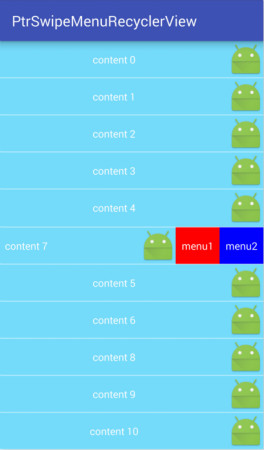
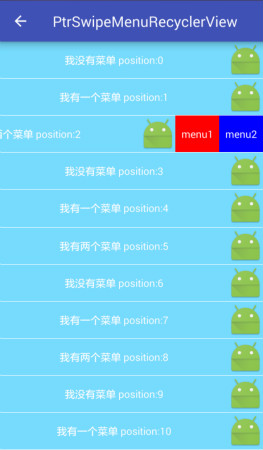
2016.11.18  增加定制侧滑菜单demo

diff --git a/app/src/main/java/com/cc/library/view/DragSwipeDemoAct.java b/app/src/main/java/com/cc/library/view/DragSwipeDemoAct.java
@@ -1,6 +1,5 @@
 package com.cc.library.view;
 
-import android.app.Activity;
 import android.os.AsyncTask;
 import android.os.Bundle;
 import android.support.v7.app.AppCompatActivity;
@@ -9,6 +8,7 @@ import android.support.v7.widget.RecyclerView;
 import android.support.v7.widget.helper.ItemTouchHelper;
 import android.view.View;
 
+import com.cc.library.view.adapter.DragSwipeAdapter;
 import com.cc.library.view.adapter.SwipeAdapter;
 import com.cc.library.view.util.ToastUtil;
 import com.library.widget.PtrSwipeMenuRecyclerView;
@@ -24,8 +24,9 @@ import java.util.List;
 
 public class DragSwipeDemoAct extends AppCompatActivity {
     private PtrSwipeMenuRecyclerView recyclerView;
-    private SwipeAdapter swipeAdapter;
+    private DragSwipeAdapter adapter;
     public List<Integer> datas;
+
     @Override
     protected void onCreate(Bundle savedInstanceState) {
         super.onCreate(savedInstanceState);
@@ -33,6 +34,7 @@ public class DragSwipeDemoAct extends AppCompatActivity {
         initResources();
         initView();
     }
+
     @Override
     public boolean onSupportNavigateUp() {
         finish();
@@ -40,12 +42,12 @@ public class DragSwipeDemoAct extends AppCompatActivity {
     }
 
     private void initResources() {
-        swipeAdapter = new SwipeAdapter();
+        adapter = new DragSwipeAdapter();
         datas = new ArrayList<>();
         for (int i = 0; i < 17; i++) {
             datas.add(i);
         }
-        swipeAdapter.setDatas(datas);
+        adapter.setDatas(datas);
     }
 
     private void initView() {
@@ -54,7 +56,7 @@ public class DragSwipeDemoAct extends AppCompatActivity {
         recyclerView = (PtrSwipeMenuRecyclerView) findViewById(R.id.recycler_view);
         //参数：context,横向或纵向滑动，是否颠倒显示数据
         recyclerView.setLayoutManager(new LinearLayoutManager(this, LinearLayoutManager.VERTICAL, false));
-        recyclerView.setAdapter(swipeAdapter);
+        recyclerView.setAdapter(adapter);
 //        //设置不允许上拉加载更多
 //        recyclerView.setPullLoadMoreEnable(false);
 //        //设置不允许下拉刷新
@@ -72,7 +74,6 @@ public class DragSwipeDemoAct extends AppCompatActivity {
     }
 
 
-
     /**
      * 菜单点击事件监听
      */
@@ -80,9 +81,9 @@ public class DragSwipeDemoAct extends AppCompatActivity {
         @Override
         public void onMenuClick(View view, int position) {
             if (view.getId() == R.id.menu1)
-                ToastUtil.showToast("position:" + position + "menu1", 0);
+                ToastUtil.showToast("position:" + position + ",menu1", 0);
             if (view.getId() == R.id.menu2)
-                ToastUtil.showToast("position:" + position + "menu2", 0);
+                ToastUtil.showToast("position:" + position + ",menu2", 0);
         }
     };
 
@@ -110,7 +111,7 @@ public class DragSwipeDemoAct extends AppCompatActivity {
         @Override
         public int getMovementFlags(RecyclerView recyclerView, RecyclerView.ViewHolder viewHolder) {
             final int dragFlag = ItemTouchHelper.UP | ItemTouchHelper.DOWN;
-            return makeMovementFlags(dragFlag,0);
+            return makeMovementFlags(dragFlag, 0);
         }
 
         @Override
@@ -118,9 +119,10 @@ public class DragSwipeDemoAct extends AppCompatActivity {
 
             int from = viewHolder.getAdapterPosition();
             int to = target.getAdapterPosition();
-            Collections.swap(datas,from,to);
+            if (to < datas.size())
+                Collections.swap(datas, from, to);
 
-            swipeAdapter.notifyItemMoved(from,to);
+            adapter.notifyItemMoved(from, to);
             return true;
         }
 
@@ -131,9 +133,9 @@ public class DragSwipeDemoAct extends AppCompatActivity {
 
         @Override
         public void onSelectedChanged(RecyclerView.ViewHolder viewHolder, int actionState) {
-            SwipeAdapter.ViewHolder holder = (SwipeAdapter.ViewHolder) viewHolder;
+            DragSwipeAdapter.ViewHolder holder = (DragSwipeAdapter.ViewHolder) viewHolder;
             //被选中时，改背景色
-            if(actionState != ItemTouchHelper.ACTION_STATE_IDLE){
+            if (actionState != ItemTouchHelper.ACTION_STATE_IDLE) {
                 holder.tv.setBackgroundColor(getResources().getColor(R.color.deepskyblue_pressed));
             }
             super.onSelectedChanged(viewHolder, actionState);
@@ -142,7 +144,7 @@ public class DragSwipeDemoAct extends AppCompatActivity {
         @Override
         public void clearView(RecyclerView recyclerView, RecyclerView.ViewHolder viewHolder) {
             super.clearView(recyclerView, viewHolder);
-            SwipeAdapter.ViewHolder holder = (SwipeAdapter.ViewHolder) viewHolder;
+            DragSwipeAdapter.ViewHolder holder = (DragSwipeAdapter.ViewHolder) viewHolder;
             holder.tv.setBackgroundColor(getResources().getColor(R.color.deepskyblue));
         }
     });
@@ -183,8 +185,8 @@ public class DragSwipeDemoAct extends AppCompatActivity {
             for (int i = count; i < count + 10; i++) {
                 datas.add(i);
             }
-            swipeAdapter.setDatas(datas);
-            swipeAdapter.notifyDataSetChanged();
+            adapter.setDatas(datas);
+            adapter.notifyDataSetChanged();
             recyclerView.onLoadMoreComplete();
             super.onPostExecute(result);
         }

diff --git a/library/src/main/java/com/library/widget/adapter/SwipeMenuAdapter.java b/library/src/main/java/com/library/widget/adapter/SwipeMenuAdapter.java
@@ -30,7 +30,7 @@ public abstract class SwipeMenuAdapter<V extends PtrSwipeMenuRecyclerView.ViewHo
     }
 
     @Override
-    public RecyclerView.ViewHolder onCreateViewHolder(ViewGroup parent, int viewType) {
+    public final RecyclerView.ViewHolder onCreateViewHolder(ViewGroup parent, int viewType) {
         Log.d(TAG, "onCreateViewHolder.. viewType = " + viewType + "  HT:" + HeaderType + "  FT:" + FooterType);
         if (viewType == HeaderType) {
             headerViewHolder = new HeaderFooterViewHolder(new HeaderView(parent.getContext()));
@@ -78,15 +78,15 @@ public abstract class SwipeMenuAdapter<V extends PtrSwipeMenuRecyclerView.ViewHo
     public abstract RecyclerView.ViewHolder onCreateThisViewHolder(ViewGroup contentView, int viewType);
 
     @Override
-    public void onBindViewHolder(RecyclerView.ViewHolder holder, int position) {
+    public final void onBindViewHolder(RecyclerView.ViewHolder holder, int position) {
         if (position != 0 && position != getItemCount() - 1)
-            onBindThisViewHolder((V) holder, position);
+            onBindThisViewHolder((V) holder, position - 1);
     }
 
     public abstract void onBindThisViewHolder(V holder, int position);
 
     @Override
-    public int getItemCount() {
+    public final int getItemCount() {
         //添加Header和Footer的数目
         return getThisItemCount() + 2;
     }
@@ -106,12 +106,22 @@ public abstract class SwipeMenuAdapter<V extends PtrSwipeMenuRecyclerView.ViewHo
      * @return
      */
     @Override
-    public int getItemViewType(int position) {
+    public final int getItemViewType(int position) {
         if (position == 0)
             return HeaderType;
-        if (position == getThisItemCount() + 1)
+        else if (position == getThisItemCount() + 1)
             return FooterType;
-        return super.getItemViewType(position - 1);//减1去掉herder的位置
+        else
+            return getThisItemViewType(position - 1);//减1减去header位置
+    }
+
+    /**
+     * 此方法替代原Adapter中的getItemViewType方法
+     * 使用与
+     * @return
+     */
+    public int getThisItemViewType(int position) {
+        return 0;
     }
 
 

diff --git a/app/src/main/java/com/cc/library/view/adapter/DragSwipeAdapter.java b/app/src/main/java/com/cc/library/view/adapter/DragSwipeAdapter.java
@@ -16,9 +16,8 @@ import java.util.List;
 /**
  * Created by zhangyu on 2016/11/9.
  */
-public class SwipeAdapter extends SwipeMenuAdapter<SwipeAdapter.ViewHolder> {
+public class DragSwipeAdapter extends SwipeMenuAdapter<DragSwipeAdapter.ViewHolder> {
     public List<Integer> datas;
-    public final int ONE_MENU = 0X1132, NO_MENU = 0X1133, TWO_MENU = 0X1134;
 
     public class ViewHolder extends PtrSwipeMenuRecyclerView.ViewHolder {
         public TextView tv;
@@ -38,14 +37,8 @@ public class SwipeAdapter extends SwipeMenuAdapter<SwipeAdapter.ViewHolder> {
     @Override
     protected LinearLayout createMenuView(ViewGroup parent, int viewType) {
         LinearLayout menuView = (LinearLayout) LayoutInflater.from(parent.getContext()).inflate(R.layout.menu_for_test, parent, false);
-        LinearLayout menuView1 = (LinearLayout) LayoutInflater.from(parent.getContext()).inflate(R.layout.menu1_for_test, parent, false);
 
-        if (viewType == ONE_MENU)
-            return menuView1;
-        else if (viewType == TWO_MENU)
             return menuView;
-        else
-            return null;
     }
 
     @Override
@@ -56,26 +49,10 @@ public class SwipeAdapter extends SwipeMenuAdapter<SwipeAdapter.ViewHolder> {
     @Override
     public void onBindThisViewHolder(ViewHolder holder, int position) {
         if (null != datas && position < datas.size()){
-            if (position % 3 == 0) {
-                holder.tv.setText("我没有菜单 position:" + datas.get(position));
-            } else if (position % 3 == 1) {
-                holder.tv.setText("我有一个菜单 position:" + datas.get(position));
-            } else
-                holder.tv.setText("我有两个菜单 position:" + datas.get(position));
+                holder.tv.setText("content" + datas.get(position));
         }
 
     }
-
-    @Override
-    public int getThisItemViewType(int position) {
-        if (position % 3 == 0) {
-            return NO_MENU;
-        } else if (position % 3 == 1) {
-            return ONE_MENU;
-        } else
-            return TWO_MENU;
-    }
-
 
     @Override
     public int getThisItemCount() {

diff --git a/app/src/main/java/com/cc/library/view/PtrSwipeDemoAct.java b/app/src/main/java/com/cc/library/view/PtrSwipeDemoAct.java
@@ -74,9 +74,9 @@ public class PtrSwipeDemoAct extends AppCompatActivity{
         @Override
         public void onMenuClick(View view, int position) {
             if (view.getId() == R.id.menu1)
-                ToastUtil.showToast("position:" + position + "menu1", 0);
+                ToastUtil.showToast("position:" + position + ",menu1", 0);
             if (view.getId() == R.id.menu2)
-                ToastUtil.showToast("position:" + position + "menu2", 0);
+                ToastUtil.showToast("position:" + position + ",menu2", 0);
         }
     };
 

diff --git a/app/src/main/java/com/cc/library/view/adapter/CustomAdapter.java b/app/src/main/java/com/cc/library/view/adapter/CustomAdapter.java
@@ -78,6 +78,11 @@ public class CustomAdapter extends RecyclerView.Adapter<CustomAdapter.ViewHolder
         this.recyclerViewOnClick = recyclerViewOnClick;
     }
 
+    @Override
+    public int getItemViewType(int position) {
+        return super.getItemViewType(position);
+    }
+
     /**
      * 监听回调接口
      */
